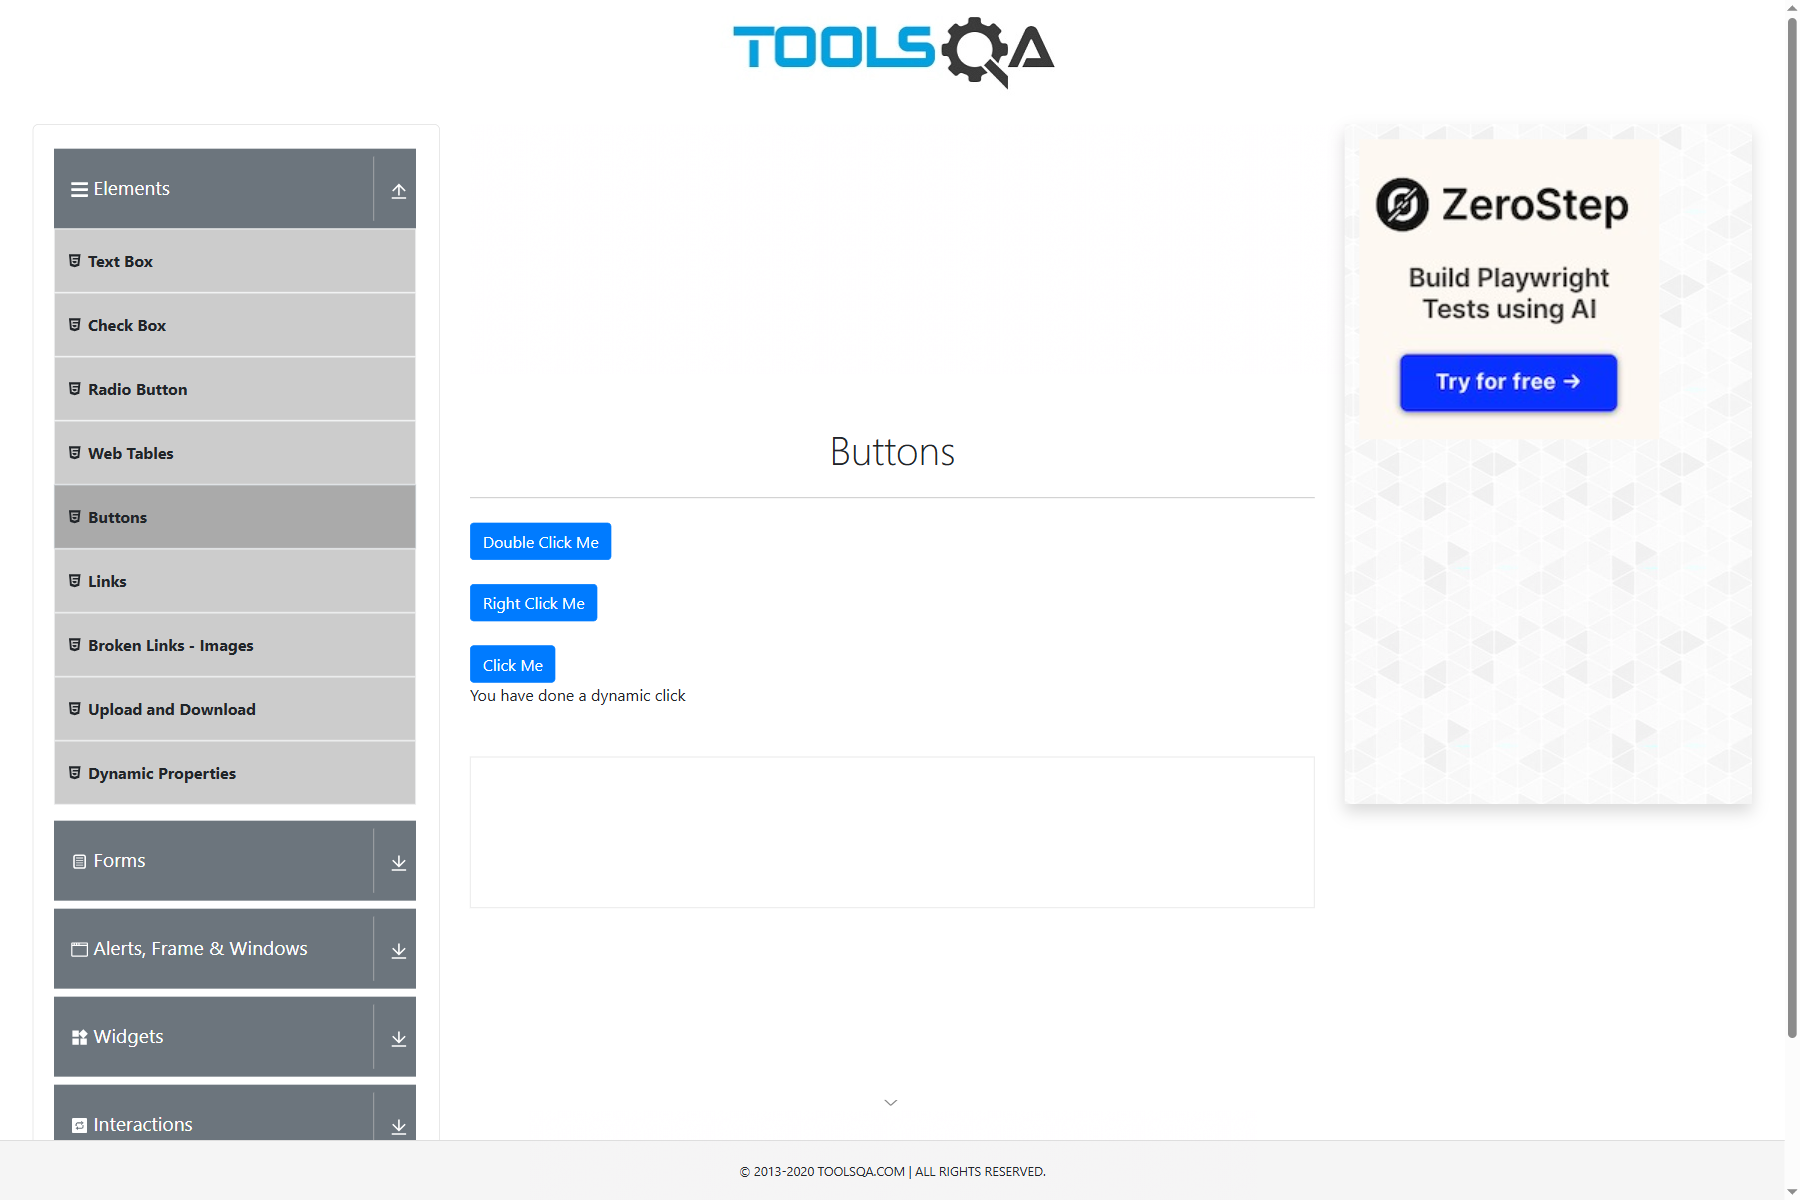
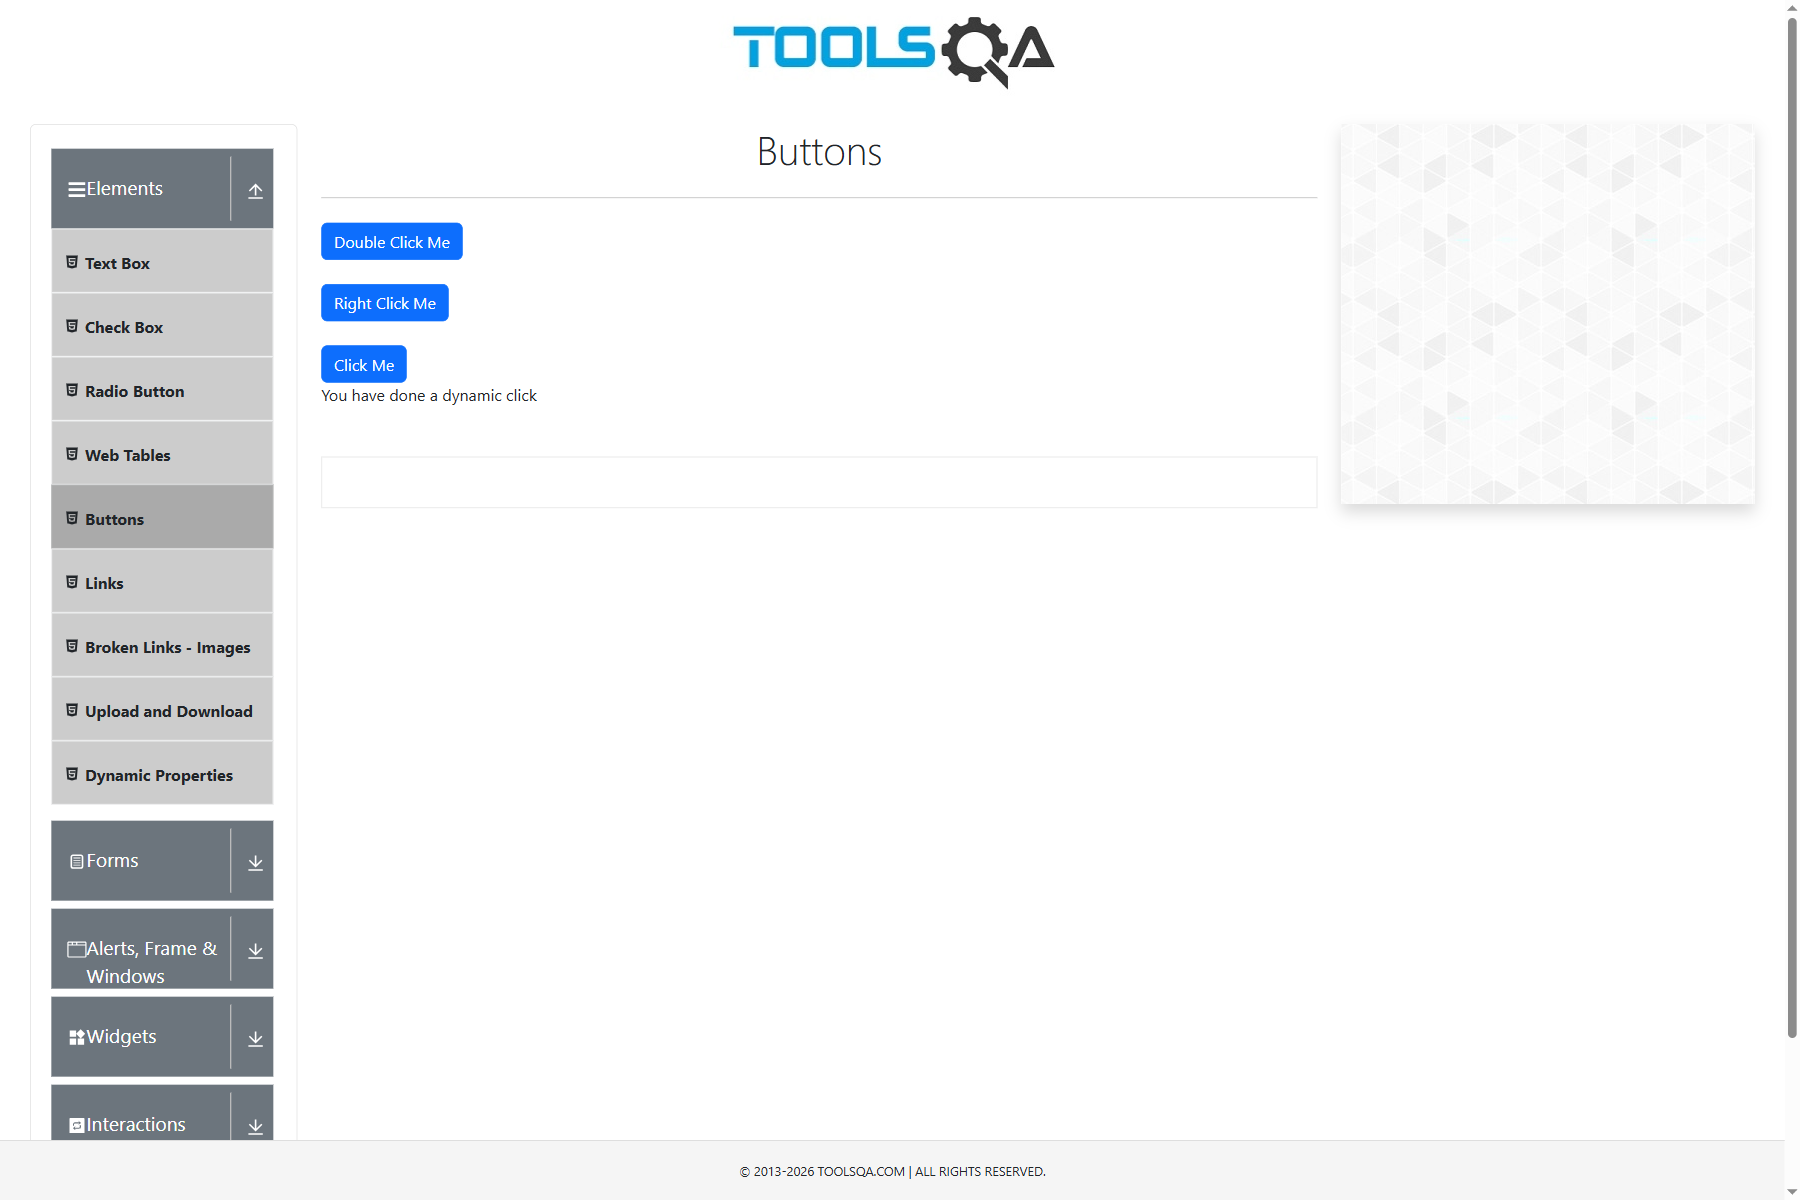
Playwright Concepts

diff --git a/reports/report.html b/reports/report.html
@@ -328,7 +328,7 @@ div.media {
   </head>
   <body>
     <h1 id="title">report.html</h1>
-    <p>Report generated on 29-Jan-2026 at 17:18:00 by <a href="https://pypi.python.org/pypi/pytest-html">pytest-html</a>
+    <p>Report generated on 23-Apr-2026 at 21:06:17 by <a href="https://pypi.python.org/pypi/pytest-html">pytest-html</a>
         v4.2.0</p>
     <div id="environment-header">
       <h2>Environment</h2>
@@ -383,7 +383,7 @@ div.media {
         <h2>Summary</h2>
         <div class="additional-summary prefix">
         </div>
-        <p class="run-count">0 test took 00:00:27.</p>
+        <p class="run-count">0 test took 00:06:31.</p>
         <p class="filter">(Un)check the boxes to filter the results.</p>
         <div class="summary__reload">
           <div class="summary__reload__button hidden" onclick="location.reload()">
@@ -403,8 +403,8 @@ div.media {
             <span class="xfailed">0 Expected failures,</span>
             <input checked="true" class="filter" name="filter_checkbox" type="checkbox" data-test-result="xpassed" disabled>
             <span class="xpassed">0 Unexpected passes,</span>
-            <input checked="true" class="filter" name="filter_checkbox" type="checkbox" data-test-result="error" disabled>
-            <span class="error">0 Errors,</span>
+            <input checked="true" class="filter" name="filter_checkbox" type="checkbox" data-test-result="error" >
+            <span class="error">2 Errors,</span>
             <input checked="true" class="filter" name="filter_checkbox" type="checkbox" data-test-result="rerun" disabled>
             <span class="rerun">0 Reruns</span>
             <input checked="true" class="filter" name="filter_checkbox" type="checkbox" data-test-result="retried" disabled>
@@ -431,7 +431,7 @@ div.media {
       </thead>
     </table>
   <footer>
-    <div id="data-container" data-jsonblob="{&#34;environment&#34;: {&#34;Python&#34;: &#34;3.13.0&#34;, &#34;Platform&#34;: &#34;Windows-10-10.0.19045-SP0&#34;, &#34;Packages&#34;: {&#34;pytest&#34;: &#34;9.0.2&#34;, &#34;pluggy&#34;: &#34;1.6.0&#34;}, &#34;Plugins&#34;: {&#34;base-url&#34;: &#34;2.1.0&#34;, &#34;html&#34;: &#34;4.2.0&#34;, &#34;metadata&#34;: &#34;3.1.1&#34;, &#34;playwright&#34;: &#34;0.7.2&#34;}, &#34;Base URL&#34;: &#34;&#34;}, &#34;tests&#34;: {}, &#34;renderCollapsed&#34;: [&#34;passed&#34;], &#34;initialSort&#34;: &#34;result&#34;, &#34;title&#34;: &#34;report.html&#34;}"></div>
+    <div id="data-container" data-jsonblob="{&#34;environment&#34;: {&#34;Python&#34;: &#34;3.13.0&#34;, &#34;Platform&#34;: &#34;Windows-[phone redacted]-SP0&#34;, &#34;Packages&#34;: {&#34;pytest&#34;: &#34;9.0.2&#34;, &#34;pluggy&#34;: &#34;1.6.0&#34;}, &#34;Plugins&#34;: {&#34;base-url&#34;: &#34;2.1.0&#34;, &#34;html&#34;: &#34;4.2.0&#34;, &#34;metadata&#34;: &#34;3.1.1&#34;, &#34;playwright&#34;: &#34;0.7.2&#34;}, &#34;Base URL&#34;: &#34;&#34;}, &#34;tests&#34;: {&#34;PlayWrightConcepts/test_checkbox.py&#34;: [{&#34;extras&#34;: [], &#34;result&#34;: &#34;Error&#34;, &#34;testId&#34;: &#34;PlayWrightConcepts/test_checkbox.py::collect&#34;, &#34;duration&#34;: &#34;0 ms&#34;, &#34;resultsTableRow&#34;: [&#34;&lt;td class=\&#34;col-result\&#34;&gt;Error&lt;/td&gt;&#34;, &#34;&lt;td class=\&#34;col-testId\&#34;&gt;PlayWrightConcepts/test_checkbox.py::collect&lt;/td&gt;&#34;, &#34;&lt;td class=\&#34;col-duration\&#34;&gt;0 ms&lt;/td&gt;&#34;, &#34;&lt;td class=\&#34;col-links\&#34;&gt;&lt;/td&gt;&#34;], &#34;log&#34;: &#34;PlayWrightConcepts\\test_checkbox.py:40: in &amp;lt;module&amp;gt;\n    asyncio.run(main())\nC:\\Users\\sikkandar.basha\\AppData\\Local\\Programs\\Python\\Python313\\Lib\\asyncio\\runners.py:194: in run\n    return runner.run(main)\n           ^^^^^^^^^^^^^^^^\nC:\\Users\\sikkandar.basha\\AppData\\Local\\Programs\\Python\\Python313\\Lib\\asyncio\\runners.py:118: in run\n    return self._loop.run_until_complete(task)\n           ^^^^^^^^^^^^^^^^^^^^^^^^^^^^^^^^^^^\nC:\\Users\\sikkandar.basha\\AppData\\Local\\Programs\\Python\\Python313\\Lib\\asyncio\\base_events.py:721: in run_until_complete\n    return future.result()\n           ^^^^^^^^^^^^^^^\nPlayWrightConcepts\\test_checkbox.py:37: in main\n    await run(playwright)\nPlayWrightConcepts\\test_checkbox.py:16: in run\n    await page.get_by_role(&amp;quot;button&amp;quot;, name=&amp;quot;Toggle&amp;quot;).click()\nplaywright_setup\\Lib\\site-packages\\playwright\\async_api\\_generated.py:15478: in click\n    await self._impl_obj.click(\nplaywright_setup\\Lib\\site-packages\\playwright\\_impl\\_locator.py:160: in click\n    return await self._frame.click(self._selector, strict=True, **params)\n           ^^^^^^^^^^^^^^^^^^^^^^^^^^^^^^^^^^^^^^^^^^^^^^^^^^^^^^^^^^^^^^\nplaywright_setup\\Lib\\site-packages\\playwright\\_impl\\_frame.py:549: in click\n    await self._channel.send(&amp;quot;click&amp;quot;, self._timeout, locals_to_params(locals()))\nplaywright_setup\\Lib\\site-packages\\playwright\\_impl\\_connection.py:69: in send\n    return await self._connection.wrap_api_call(\nplaywright_setup\\Lib\\site-packages\\playwright\\_impl\\_connection.py:558: in wrap_api_call\n    raise rewrite_error(error, f&amp;quot;{parsed_st[&amp;#x27;apiName&amp;#x27;]}: {error}&amp;quot;) from None\nE   playwright._impl._errors.TimeoutError: Locator.click: Timeout 30000ms exceeded.\nE   Call log:\nE     - waiting for get_by_role(&amp;quot;button&amp;quot;, name=&amp;quot;Toggle&amp;quot;)\n\n------------------------------- Captured stdout --------------------------------\nPlugin info[vscode-pytest]: Checking if rootdir is a child of a symlink.\nChecking for symlink parent starting at current path:  f:\\Python_Git\\Python_Playwright\n&#34;}], &#34;PlayWrightConcepts/test_multiselect.py&#34;: [{&#34;extras&#34;: [], &#34;result&#34;: &#34;Error&#34;, &#34;testId&#34;: &#34;PlayWrightConcepts/test_multiselect.py::collect&#34;, &#34;duration&#34;: &#34;0 ms&#34;, &#34;resultsTableRow&#34;: [&#34;&lt;td class=\&#34;col-result\&#34;&gt;Error&lt;/td&gt;&#34;, &#34;&lt;td class=\&#34;col-testId\&#34;&gt;PlayWrightConcepts/test_multiselect.py::collect&lt;/td&gt;&#34;, &#34;&lt;td class=\&#34;col-duration\&#34;&gt;0 ms&lt;/td&gt;&#34;, &#34;&lt;td class=\&#34;col-links\&#34;&gt;&lt;/td&gt;&#34;], &#34;log&#34;: &#34;PlayWrightConcepts\\test_multiselect.py:30: in &amp;lt;module&amp;gt;\n    asyncio.run(main())\nC:\\Users\\sikkandar.basha\\AppData\\Local\\Programs\\Python\\Python313\\Lib\\asyncio\\runners.py:194: in run\n    return runner.run(main)\n           ^^^^^^^^^^^^^^^^\nC:\\Users\\sikkandar.basha\\AppData\\Local\\Programs\\Python\\Python313\\Lib\\asyncio\\runners.py:118: in run\n    return self._loop.run_until_complete(task)\n           ^^^^^^^^^^^^^^^^^^^^^^^^^^^^^^^^^^^\nC:\\Users\\sikkandar.basha\\AppData\\Local\\Programs\\Python\\Python313\\Lib\\asyncio\\base_events.py:721: in run_until_complete\n    return future.result()\n           ^^^^^^^^^^^^^^^\nPlayWrightConcepts\\test_multiselect.py:27: in main\n    await run(playwright)\nPlayWrightConcepts\\test_multiselect.py:14: in run\n    await page.goto(&amp;quot;https://demoqa.com/select-menu&amp;quot;)\nplaywright_setup\\Lib\\site-packages\\playwright\\async_api\\_generated.py:8992: in goto\n    await self._impl_obj.goto(\nplaywright_setup\\Lib\\site-packages\\playwright\\_impl\\_page.py:556: in goto\n    return await self._main_frame.goto(**locals_to_params(locals()))\n           ^^^^^^^^^^^^^^^^^^^^^^^^^^^^^^^^^^^^^^^^^^^^^^^^^^^^^^^^^\nplaywright_setup\\Lib\\site-packages\\playwright\\_impl\\_frame.py:153: in goto\n    await self._channel.send(\nplaywright_setup\\Lib\\site-packages\\playwright\\_impl\\_connection.py:69: in send\n    return await self._connection.wrap_api_call(\nplaywright_setup\\Lib\\site-packages\\playwright\\_impl\\_connection.py:558: in wrap_api_call\n    raise rewrite_error(error, f&amp;quot;{parsed_st[&amp;#x27;apiName&amp;#x27;]}: {error}&amp;quot;) from None\nE   playwright._impl._errors.TimeoutError: Page.goto: Timeout 30000ms exceeded.\nE   Call log:\nE     - navigating to &amp;quot;https://demoqa.com/select-menu&amp;quot;, waiting until &amp;quot;load&amp;quot;\n&#34;}]}, &#34;renderCollapsed&#34;: [&#34;passed&#34;], &#34;initialSort&#34;: &#34;result&#34;, &#34;title&#34;: &#34;report.html&#34;}"></div>
     <script>
       (function(){function r(e,n,t){function o(i,f){if(!n[i]){if(!e[i]){var c="function"==typeof require&&require;if(!f&&c)return c(i,!0);if(u)return u(i,!0);var a=new Error("Cannot find module '"+i+"'");throw a.code="MODULE_NOT_FOUND",a}var p=n[i]={exports:{}};e[i][0].call(p.exports,function(r){var n=e[i][1][r];return o(n||r)},p,p.exports,r,e,n,t)}return n[i].exports}for(var u="function"==typeof require&&require,i=0;i<t.length;i++)o(t[i]);return o}return r})()({1:[function(require,module,exports){
 const { getCollapsedCategory, setCollapsedIds } = require('./storage.js')

diff --git a/PlayWrightConcepts/basics/XPath_selectors.py b/PlayWrightConcepts/basics/XPath_selectors.py
@@ -1,0 +1,29 @@
+#using xpath selectors to login to orangehrm demo site
+from playwright.sync_api import sync_playwright
+
+with sync_playwright() as p:
+    browser = p.chromium.launch(headless=False)
+    page = browser.new_page()
+    page.goto("https://opensource-demo.orangehrmlive.com/web/index.php/auth/login")
+    #--actions
+    #xpath selectors are: relative x path - //tagname[@attribute="value"]
+    #username_element = page.wait_for_selector('//input[@name="username"]').type('Admin')
+    #password_element = page.wait_for_selector('//input[@placeholder="Password"]').type('admin123')
+    #login_button = page.wait_for_selector('//button[@type="submit"]').click()
+    #page.wait_for_timeout(3000)
+    
+    #text selector - //tagname[text()="text value"]
+    forgot_pwd = page.wait_for_selector('//p[text()="Forgot your password? "]').click()
+    page.wait_for_timeout(3000)
+
+    #other selectors:
+    #contains text - //tagname[contains(text(),"text value")]
+    #contains attribute value - //tagname[contains(@attribute,"value")]
+
+    #starts with text - //tagname[starts-with(text(),"text value")]
+    #ends with text - //tagname[ends-with(text(),"text value")]
+    #family selector - //tagname[@attribute="value"]//childtagname
+    #following sibling - //tagname[@attribute="value"]/following-sibling::tagname
+    #preceding sibling - //tagname[@attribute="value"]/preceding-sibling::tagname
+    #ancestor selector - //tagname[@attribute="value"]/ancestor::tagname
+    #descendant selector - //tagname[@attribute="value"]//descendant::tag

diff --git a/PlayWrightConcepts/basics/Radio_and_Checkbox.py b/PlayWrightConcepts/basics/Radio_and_Checkbox.py
@@ -1,0 +1,25 @@
+from playwright.sync_api import sync_playwright
+
+with sync_playwright() as p:
+    browser = p.chromium.launch(headless=False)
+    page = browser.new_page()
+    page.goto("https://demo.automationtesting.in/Register.html")
+
+    #check the radio button
+    radio_button = page.wait_for_selector('//input[@value="Male"]')
+    radio_button.click()
+    #page.wait_for_timeout(5000)
+    #printing the testing status
+    if radio_button.is_checked():
+        print("Radio button is checked")
+    else:
+        print("Radio button is not checked")
+
+    #check for checkbox
+    checkbox = page.wait_for_selector('//input[@value="Movies"]')
+    checkbox.check()
+    if checkbox.is_checked():
+        print("Checkbox is checked")
+    else:
+        print("Checkbox is not checked")
+    page.wait_for_timeout(10000)

diff --git a/PlayWrightConcepts/basics/Dropdown_Selector.py b/PlayWrightConcepts/basics/Dropdown_Selector.py
@@ -1,0 +1,23 @@
+#contains selectors for drop down list
+from playwright.sync_api import sync_playwright
+
+with sync_playwright() as p:
+    browser = p.chromium.launch(headless=False)
+    page = browser.new_page()
+    page.goto("https://demo.automationtesting.in/Register.html")
+    #--actions
+    #1. finding the dropdown
+    #select_dropdown = page.locator('//select[contains(@id,"Skills")]')
+    #select_dropdown.click()
+    #2. selecting skills from drop down list using contains selector
+    #select_dropdown.select_option(label="AutoCAD")
+    
+    #the above way is ususlly used in selenium. 
+    # In playwright we can directly select the option without clicking the dropdown list. 
+    # Below is the way to do it in playwright. select drop down and option in one line.
+    page.select_option('//select[contains(@id,"Skills")]', label="AutoCAD")
+
+
+    page.wait_for_timeout(3000)
+    browser.close()
+

diff --git a/PlayWrightConcepts/basics/Alert_Box.py b/PlayWrightConcepts/basics/Alert_Box.py
@@ -1,0 +1,16 @@
+from playwright.sync_api import sync_playwright
+
+with sync_playwright() as p:
+    browser = p.chromium.launch(headless=False)
+    page = browser.new_page()
+    page.goto("https://demo.automationtesting.in/Alerts.html")
+
+    # selecting the locator for the alert box
+    page.wait_for_selector('//a[@href="#OKTab"]').click()
+
+    # wait for the dialog before clicking the button that triggers it
+    dialog = page.wait_for_event("dialog")
+    page.wait_for_selector('//button[@onclick="alertbox()"]').click()
+    dialog.accept()
+
+    page.wait_for_timeout(10000)